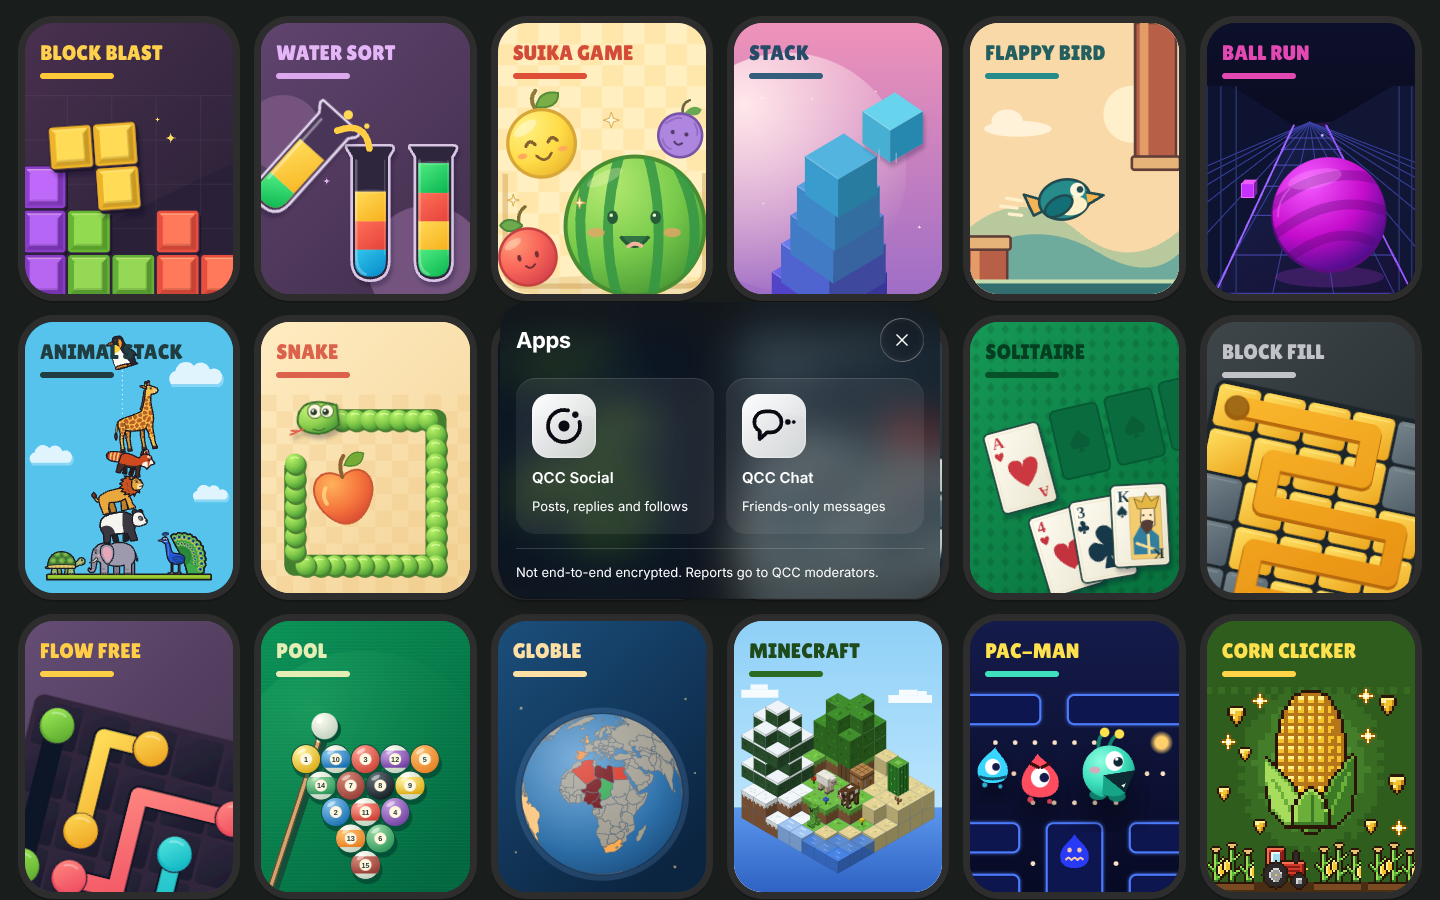
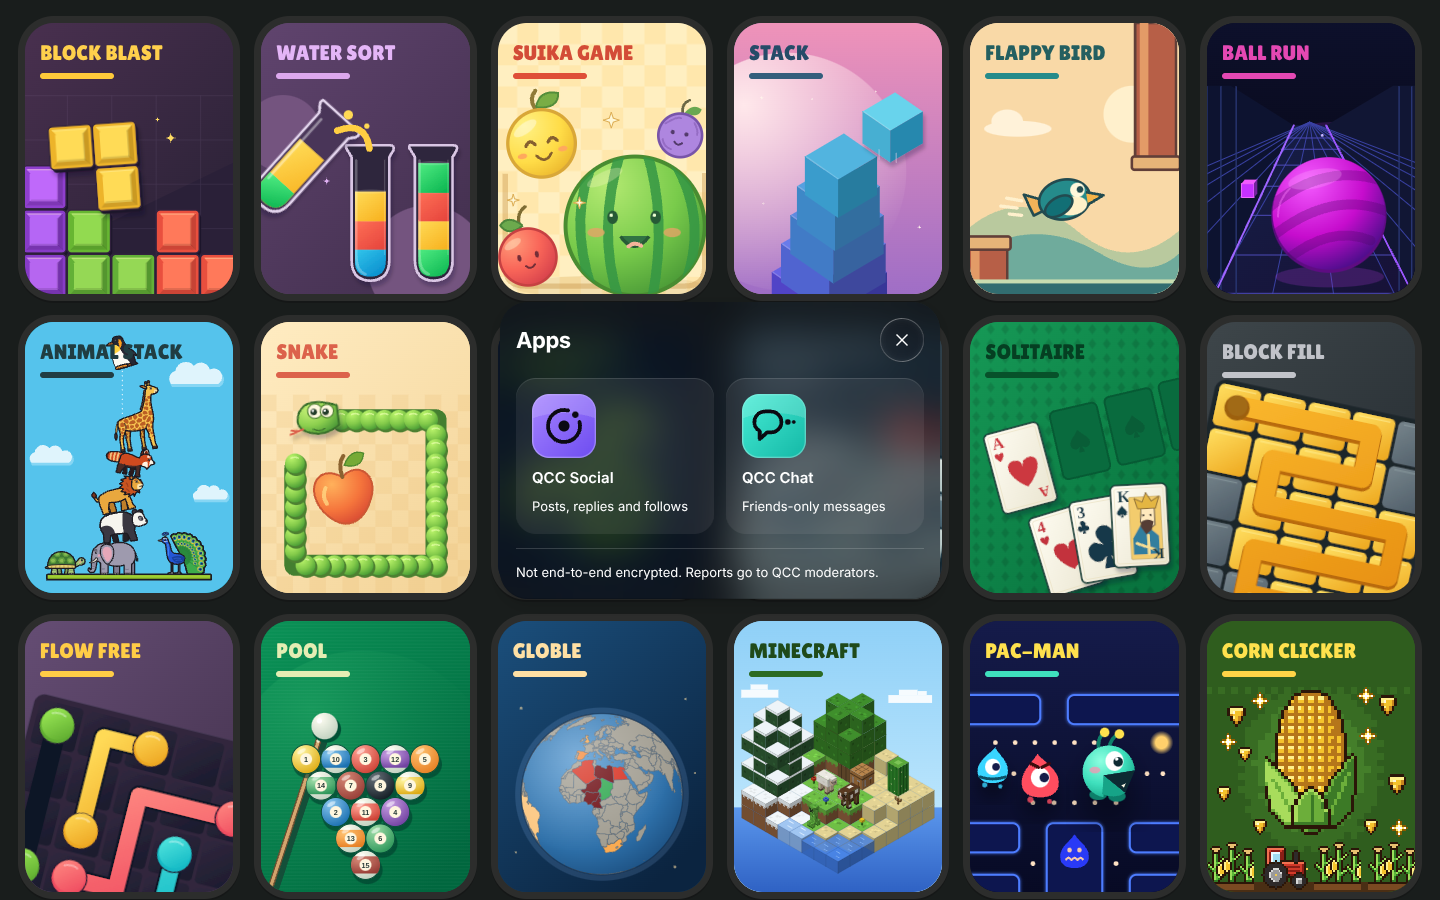
fix(social-chat): lazy view race, tile gradients, dev-only poll hook
Claude-Session: https://claude.ai/code/session_015jvJA7XzSChFPS73fziHgk

Changed region(s): [[0.3438, 0.4356, 0.4375, 0.5289], [0.5, 0.4356, 0.5625, 0.5289]]

diff --git a/tests/apps/launcher.spec.ts b/tests/apps/launcher.spec.ts
@@ -56,6 +56,8 @@ test('launcher opens Social and Chat routes and back',async({page,context})=>{
  await page.getByRole('button',{name:'Apps',exact:true}).click();
  const sheet=page.locator('#apps-dialog');await expect(sheet).toBeVisible();
  await expect(sheet.getByRole('link',{name:/QCC Social/})).toHaveAttribute('href','#/social');
+ const stops=await sheet.evaluate(el=>[...el.querySelectorAll('.apps-tile')].map(t=>[...t.querySelectorAll('stop')].map(stop=>getComputedStyle(stop).stopColor)));
+ expect(stops[0][0]).not.toBe('rgb(255, 255, 255)');expect(stops[0][0]).not.toBe(stops[1][0]);expect(stops[0][0]).toBe('rgb(166, 132, 255)');
  await sheet.getByRole('link',{name:/QCC Social/}).click();
  await expect(sheet).not.toBeVisible();await expect(page).toHaveURL(/#\/social$/);
  await expect(page.locator('section.social-view')).toBeVisible();await expect(page.locator('body')).toHaveClass(/social-active/);
@@ -107,15 +109,15 @@ test('launcher stops polling when hidden or signed out',async({page,context})=>{
   Object.defineProperty(document,'hidden',{configurable:true,get:()=>value==='hidden'});
   document.dispatchEvent(new Event('visibilitychange'));
  },state);
- await setVisibility('hidden');await page.waitForTimeout(300);
- const hiddenCount=summaryRequests;await page.waitForTimeout(6500);
+ await setVisibility('hidden');await expect.poll(async()=>{const a=summaryRequests;await page.waitForTimeout(150);return summaryRequests===a;}).toBe(true);
+ const hiddenCount=summaryRequests;await page.waitForTimeout(3600);
  expect(summaryRequests).toBe(hiddenCount);
  await setVisibility('visible');
  await expect.poll(()=>summaryRequests).toBeGreaterThan(hiddenCount);
  await page.locator('.app-navigation [data-action=menu]').click();
  await page.getByRole('button',{name:'Log out',exact:true}).click();
  await expect(page.locator('#menu')).not.toBeVisible();await page.waitForTimeout(300);
- const signedOutCount=summaryRequests;await page.waitForTimeout(6500);
+ const signedOutCount=summaryRequests;await page.waitForTimeout(3600);
  expect(summaryRequests).toBe(signedOutCount);
 });
 
@@ -143,4 +145,17 @@ for(const width of [320,390,1440])test(`six tabs fit without horizontal overflow
  expect(metrics.tabW).toBeGreaterThanOrEqual(width<360?36:44);
  expect(metrics.tv).toBe(width<440?'none':'block');
  await expect(page.getByRole('link',{name:'TV Shows',exact:true})).toBeVisible();
+});
+
+test('leaving #/social before its chunk loads keeps the library',async({page,context})=>{
+ await connect(context);await page.goto('/');await guest(page);await expect(page.locator('.game-card').first()).toBeVisible();
+ let release:()=>void=()=>{};const gate=new Promise<void>(resolve=>{release=resolve;});
+ await page.route(/\/src\/social\/view/,async route=>{await gate;await route.continue();});
+ await page.evaluate(()=>{location.hash='#/social';});
+ await expect(page.locator('.loading')).toContainText('Opening Social');
+ await page.evaluate(()=>{location.hash='#/collection';});
+ await expect(page.locator('.game-card').first()).toBeVisible();
+ release();await page.waitForTimeout(800);
+ await expect(page.locator('.game-card').first()).toBeVisible();await expect(page.locator('section.social-view')).toHaveCount(0);
+ await expect(page.locator('body')).not.toHaveClass(/social-active/);
 });

diff --git a/src/apps/icons.ts b/src/apps/icons.ts
@@ -121,13 +121,13 @@ retry:'<path d="M19.5 12a7.5 7.5 0 1 1-2.2-5.3"/><path d="M19.5 4.5v4h-4"/>',
    Each call gets its own gradient id, so two tiles on a page never share one. */
 const TILE_INK='#0b0a12';
 let tileSeq=0;
-const tile=(mark:string)=>{
+const tile=(mark:string,from:string,to:string)=>{
   const id=`qcc-tile-${++tileSeq}`;
-  return `<defs><linearGradient id="${id}" x1="0" y1="0" x2="1" y2="1"><stop offset="0" stop-color="currentColor"/><stop offset="1" stop-color="currentColor" stop-opacity=".74"/></linearGradient></defs><rect width="48" height="48" rx="13" fill="url(#${id})"/><path d="M13 1h22a12 12 0 0 1 12 12v5C34 13 14 13 1 18v-5A12 12 0 0 1 13 1z" fill="#fff" opacity=".16"/><rect x=".5" y=".5" width="47" height="47" rx="12.5" fill="none" stroke="#fff" stroke-opacity=".28"/><g transform="translate(6 6) scale(1.5)" fill="none" stroke="${TILE_INK}" stroke-width="1.9" stroke-linecap="round" stroke-linejoin="round" color="${TILE_INK}">${mark}</g>`;
+  return `<defs><linearGradient id="${id}" x1="0" y1="0" x2="1" y2="1"><stop offset="0" stop-color="${from}"/><stop offset="1" stop-color="${to}"/></linearGradient></defs><rect width="48" height="48" rx="13" fill="url(#${id})"/><path d="M13 1h22a12 12 0 0 1 12 12v5C34 13 14 13 1 18v-5A12 12 0 0 1 13 1z" fill="#fff" opacity=".16"/><rect x=".5" y=".5" width="47" height="47" rx="12.5" fill="none" stroke="#fff" stroke-opacity=".28"/><g transform="translate(6 6) scale(1.5)" fill="none" stroke="${TILE_INK}" stroke-width="1.9" stroke-linecap="round" stroke-linejoin="round" color="${TILE_INK}">${mark}</g>`;
 };
 const tiles:Record<AppTileIconName,()=>string>={
-'social-tile':()=>tile(orbit),
-'chat-tile':()=>tile(`<path d="${bubble}"/>${trail}`),
+'social-tile':()=>tile(orbit,'#a684ff','#6d4cf0'),
+'chat-tile':()=>tile(`<path d="${bubble}"/>${trail}`,'#46ecd5','#14b8a6'),
 };
 
 export const APP_ICON_NAMES=[...Object.keys(nav),...Object.keys(outline),...Object.keys(tiles)] as AppIconName[];

diff --git a/src/main.ts b/src/main.ts
@@ -235,7 +235,7 @@ async function route(){
   const isMovies=location.hash==='#/movies'||location.hash.startsWith('#/movies/');
   if(isMovies){
     if(movies){movies.navigate(location.hash);return;}
-    if(!activeId)movieScroll={x:scrollX,y:scrollY};
+    if(!activeId&&!appView)movieScroll={x:scrollX,y:scrollY};
     if(menu.open)menu.close();
     if(rulesDialog.open)rulesDialog.close();
     if(leaderboards.root.open)leaderboards.root.close();
@@ -263,7 +263,9 @@ async function route(){
     const name=appRoute==='social'?'Social':'Chat';
     content.innerHTML=`<div class="loading"><p>Opening ${name}…</p><a class="game-button secondary" href="#/collection">Back to games</a></div>`;
     try{
-      const view=appRoute==='social'?new (await import('./social/view')).SocialView(content,appDeps()):new (await import('./chat/view')).ChatView(content,appDeps());
+      const ViewClass=appRoute==='social'?(await import('./social/view')).SocialView:(await import('./chat/view')).ChatView;
+      if(token!==generation)return;
+      const view=new ViewClass(content,appDeps());
       if(token!==generation){view.dispose();return;}
       appView=view;appKind=appRoute;document.body.classList.add(`${appRoute}-active`);
       view.navigate(location.hash);
@@ -277,7 +279,7 @@ async function route(){
   const canonical=id?entryHash(id)+(location.hash.match(/\?.*$/)?.[0]??''):collectionHash;
   if(location.hash!==canonical)history.replaceState(null,'',location.pathname+location.search+canonical);
   const wasInGame=!!activeId;
-  if(id&&!wasInGame)libraryScroll={x:scrollX,y:scrollY};
+  if(id&&!wasInGame&&!wasInApp)libraryScroll={x:scrollX,y:scrollY};
   if(leaderboards.root.open){pausedForDialog=false;leaderboards.root.close();}
   const token=++generation;leave();
   // A restored scroll position is part of the navigation, so the tab bar re-bases on it rather than counting it as a scroll.

diff --git a/src/apps/launcher.ts b/src/apps/launcher.ts
@@ -7,8 +7,11 @@ import {openSheet} from '../ui/sheet';
 import {uiIcon} from '../ui/icons';
 import {appIcon} from './icons';
 
-/** Tests shorten the poll interval with window.__QCC_POLL_SCALE__ (0 to 1), read once. */
-const POLL_SCALE=(()=>{const value=Number((window as unknown as {__QCC_POLL_SCALE__?:number}).__QCC_POLL_SCALE__);return value>0&&value<=1?value:1;})();
+/** Dev builds only: tests shorten the poll interval with window.__QCC_POLL_SCALE__ (0 to 1), read once. */
+const POLL_SCALE=(()=>{
+  if(!import.meta.env.DEV)return 1;
+  const value=Number((window as unknown as {__QCC_POLL_SCALE__?:number}).__QCC_POLL_SCALE__);return value>0&&value<=1?value:1;
+})();
 const badgeText=(count:number)=>count>99?'99+':String(count);
 
 /** The shell's Apps tab, its unread badge and the launcher sheet. */
